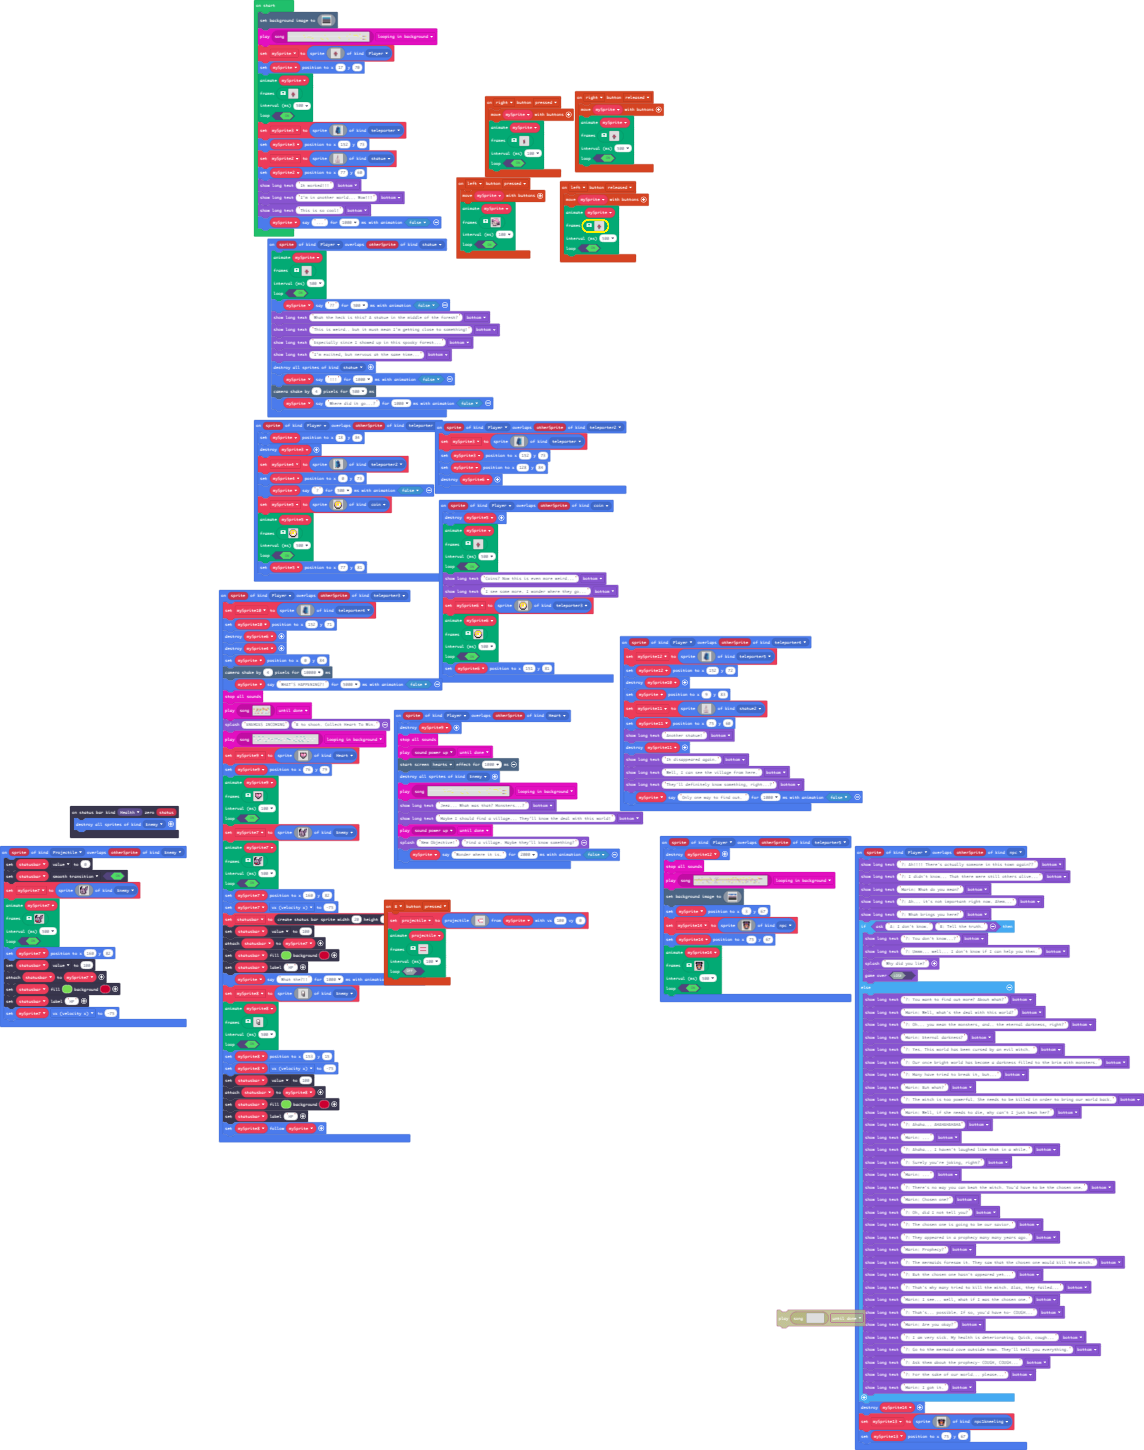
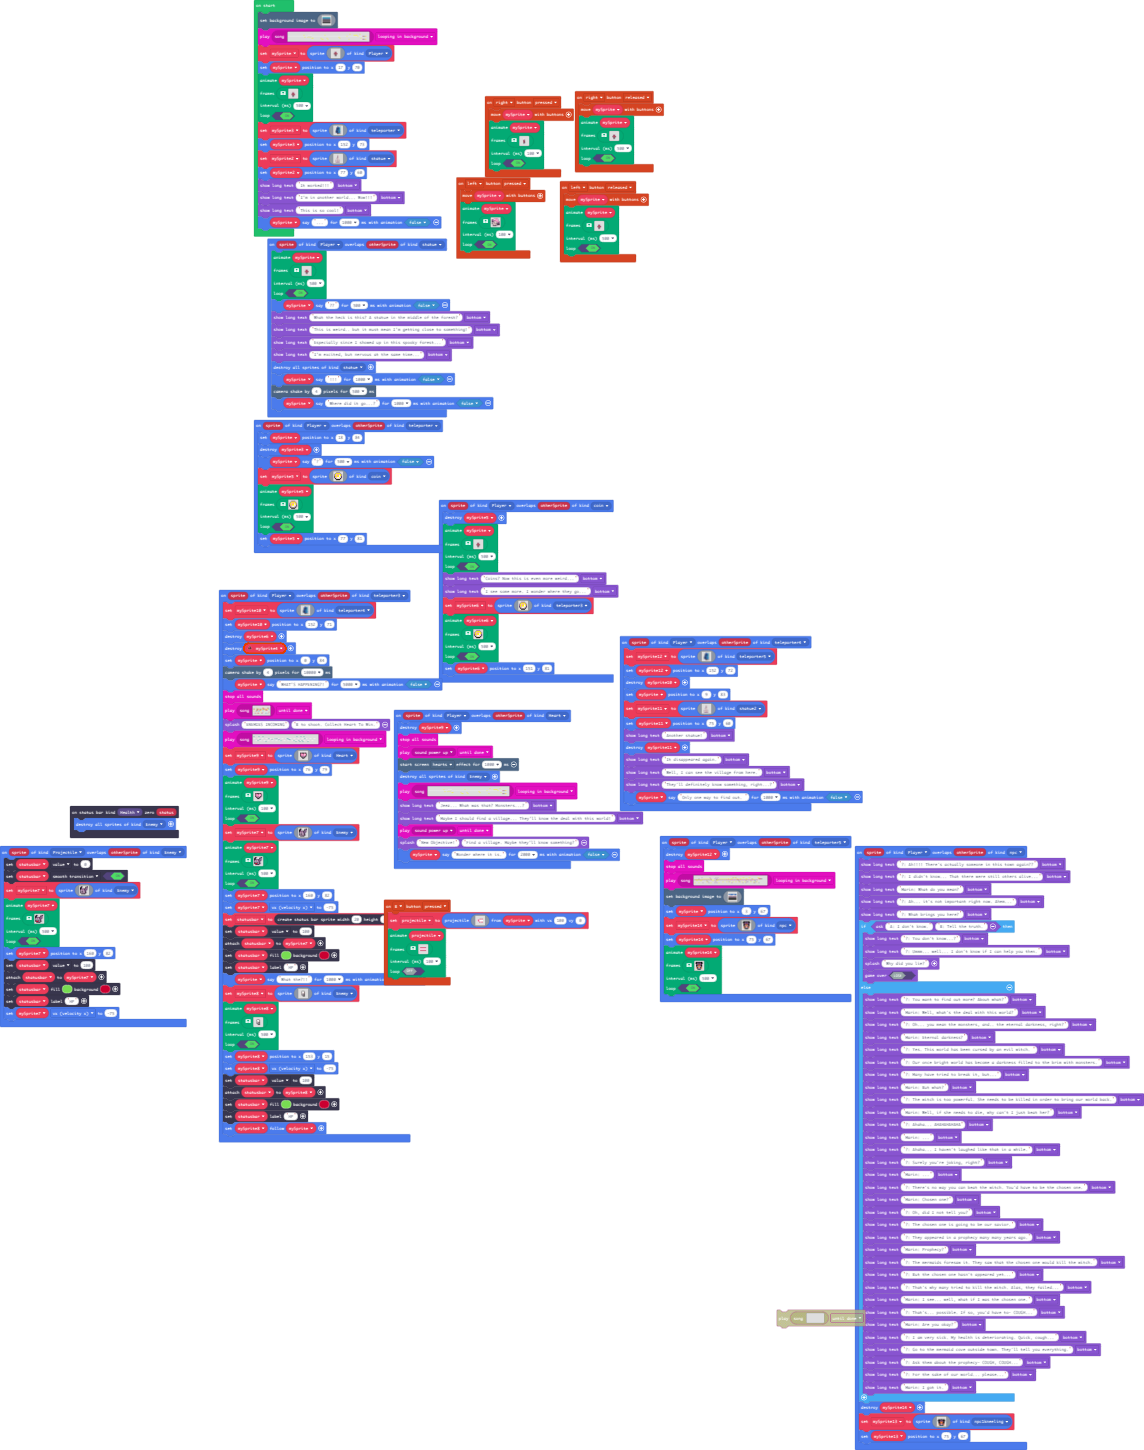
no more glitch

Changed region(s): [[0.2142, 0.2793, 0.5507, 0.4034], [0.2142, 0.4345, 0.2753, 0.4655]]

diff --git a/main.ts b/main.ts
@@ -462,53 +462,6 @@ controller.right.onEvent(ControllerButtonEvent.Pressed, function () {
     true
     )
 })
-sprites.onOverlap(SpriteKind.Player, SpriteKind.teleporter2, function (sprite, otherSprite) {
-    mySprite3 = sprites.create(img`
-        ........................
-        ...........ff..........8
-        ..........f88f........86
-        .........ff88ff......886
-        .........f8888f......866
-        ........f888888f....8666
-        ......ff88888888ff886666
-        .....f888888888888666666
-        .....ff88888888888866666
-        .....f888888888888666666
-        ....f88ff88888ff86688666
-        ....ffff88fff88f88886688
-        .....f8f8ff8ff8f88686886
-        ....f88fff88ffff86688866
-        ....f8ffff8fffff86888868
-        ....fff88ffffff888866888
-        ....f888ffff8fff86668888
-        ...f888ff8f88f8866688686
-        ..f8888888888f8666666666
-        .f88f8888888886686666666
-        .fff88888888888866666666
-        .ff888888888888666666666
-        ..ff88f888f88f8866866686
-        ..f8ff88fff88f8688668886
-        .f88ff8ff8f8f86688688686
-        f88ff8ff88ff866886886688
-        ffff88f88fff888866866888
-        .ffffffffffff88888888888
-        .ff888ff88ff888666886688
-        .f888ff888ff886668866688
-        f888888888f8866666666686
-        fff888f88888888666866666
-        ..ffff88f888888888668666
-        .....f8ff88f888ff8688668
-        ......fff8fff88fff888688
-        .........ffeeff......88e
-        .........feeeef......fee
-        .........feeeef......fee
-        ........feeefeef....feee
-        ........fefeffef....fefe
-        `, SpriteKind.teleporter)
-    mySprite3.setPosition(152, 73)
-    mySprite.setPosition(128, 84)
-    sprites.destroy(mySprite6)
-})
 sprites.onOverlap(SpriteKind.Player, SpriteKind.coin, function (sprite, otherSprite) {
     sprites.destroy(mySprite5)
     animation.runImageAnimation(
@@ -592,6 +545,7 @@ sprites.onOverlap(SpriteKind.Player, SpriteKind.coin, function (sprite, otherSpr
     mySprite6.setPosition(151, 81)
 })
 sprites.onOverlap(SpriteKind.Player, SpriteKind.teleporter3, function (sprite, otherSprite) {
+    let mySprite4: Sprite = null
     mySprite10 = sprites.create(img`
         ........................
         ...........ff..........8
@@ -863,49 +817,6 @@ sprites.onOverlap(SpriteKind.Player, SpriteKind.teleporter3, function (sprite, o
 sprites.onOverlap(SpriteKind.Player, SpriteKind.teleporter, function (sprite, otherSprite) {
     mySprite.setPosition(18, 84)
     sprites.destroy(mySprite3)
-    mySprite4 = sprites.create(img`
-        ........................
-        8..........ff...........
-        68........f88f..........
-        688......ff88ff.........
-        668......f8888f.........
-        6668....f888888f........
-        666688ff88888888ff......
-        666666888888888888f.....
-        66666888888888888ff.....
-        666666888888888888f.....
-        66888668f88888fff88f....
-        8668688888fff88f8fff....
-        8868668f8ff8ff8f88f.....
-        8888868fff88fffff8f.....
-        88888888ff8fffffffff....
-        888668888ffffff88fff....
-        68886668ffff8fff888f....
-        6868866688f88f8ff888f...
-        6866666688888f888888f...
-        666666666888888888888f..
-        66666666868888888888f8f.
-        666666666888888888888ff.
-        6866668666888f8888f888f.
-        6886866886688ff8f88ff88f
-        866888688888f88fff8fffff
-        8866888868ffff88ffff8f..
-        88868688668ffff8f8ff88f.
-        88888668868ffffff88ff8f.
-        68868868688f8ff8ff8f8ff.
-        66866666668888f8888888ff
-        66666666666888888888888f
-        66666866688888888f888ff.
-        666666888888888888ffff..
-        6668868ff88f888ff8f.....
-        8668888ff8fff88ffff.....
-        e88......ffeeff.........
-        eef......feeeef.........
-        eef......feeeef.........
-        feef....feeefeef........
-        ffef....fefeffef........
-        `, SpriteKind.teleporter2)
-    mySprite4.setPosition(0, 73)
     mySprite.sayText("?", 500, false)
     mySprite5 = sprites.create(img`
         . . b b b b . . 
@@ -1168,10 +1079,9 @@ let mySprite11: Sprite = null
 let mySprite8: Sprite = null
 let statusbar: StatusBarSprite = null
 let mySprite7: Sprite = null
-let mySprite4: Sprite = null
 let mySprite10: Sprite = null
-let mySprite5: Sprite = null
 let mySprite6: Sprite = null
+let mySprite5: Sprite = null
 let mySprite12: Sprite = null
 let mySprite9: Sprite = null
 let projectile: Sprite = null
